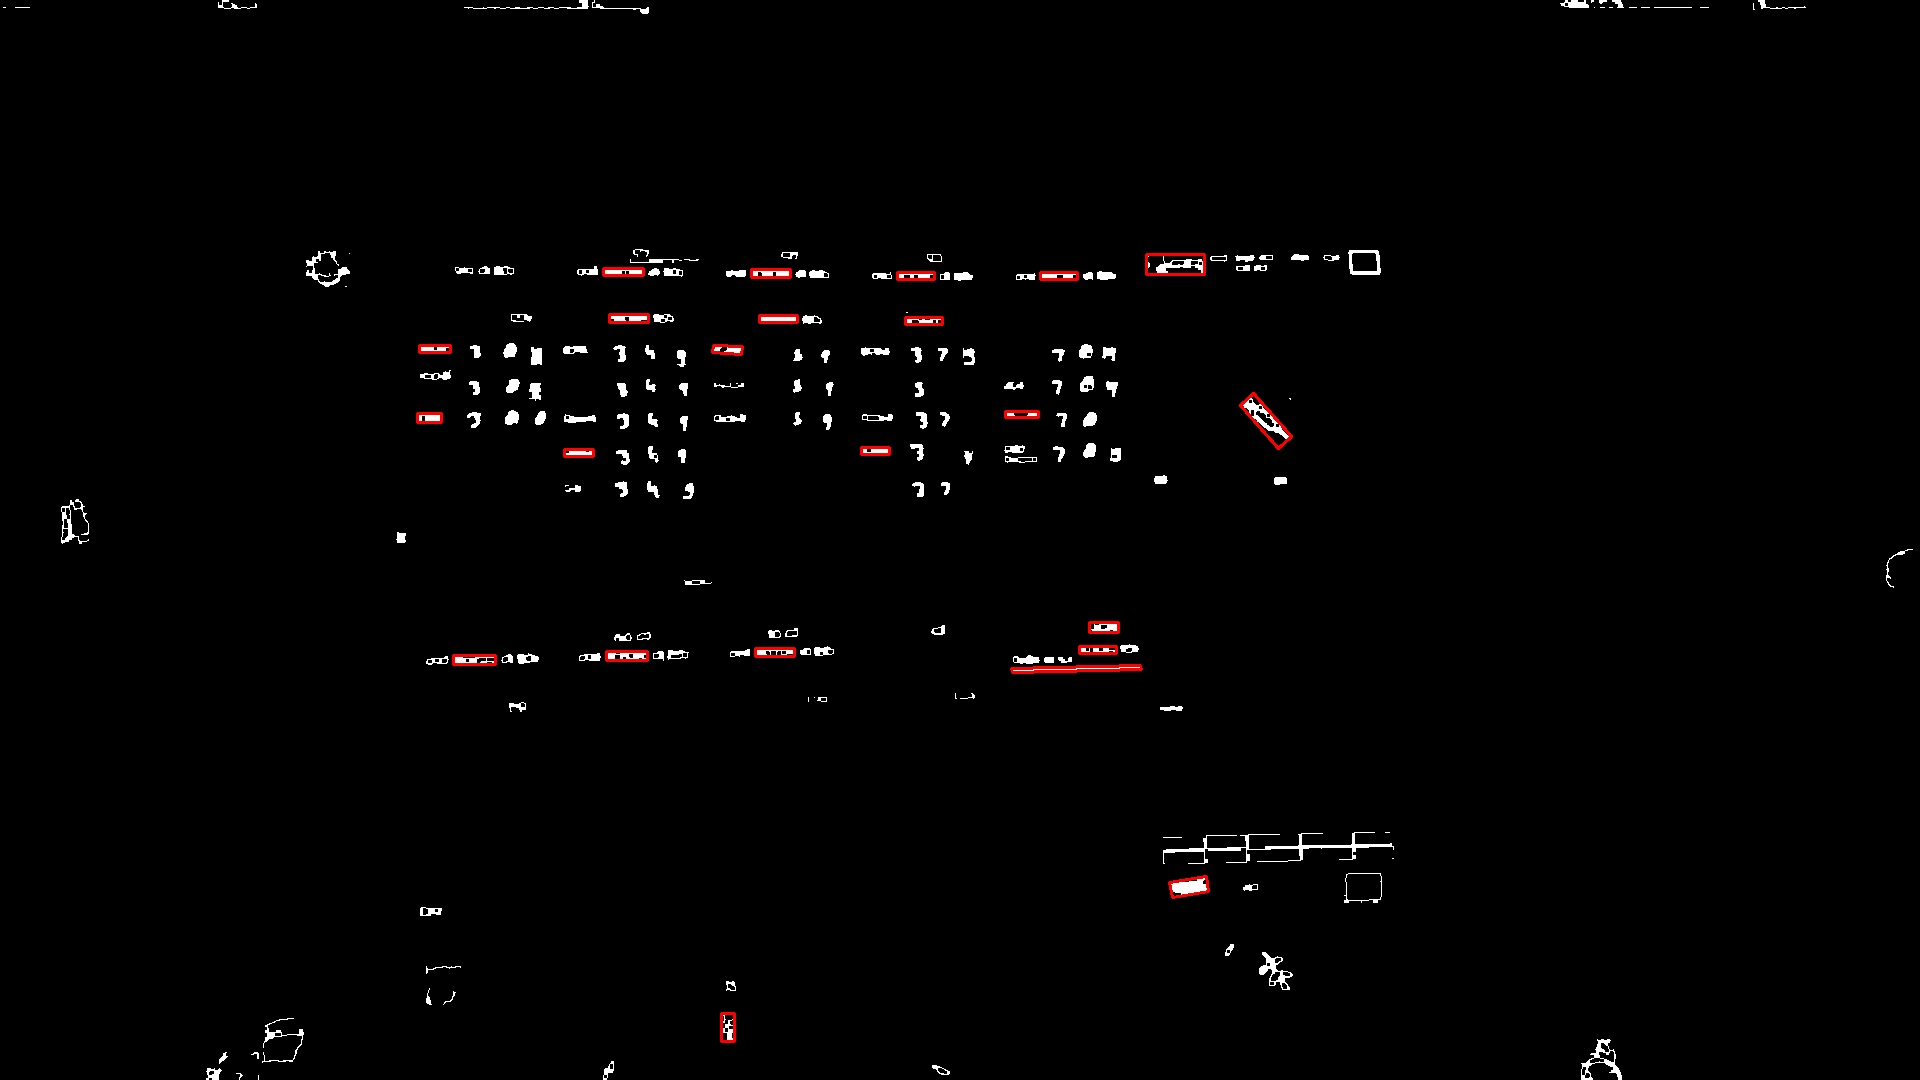
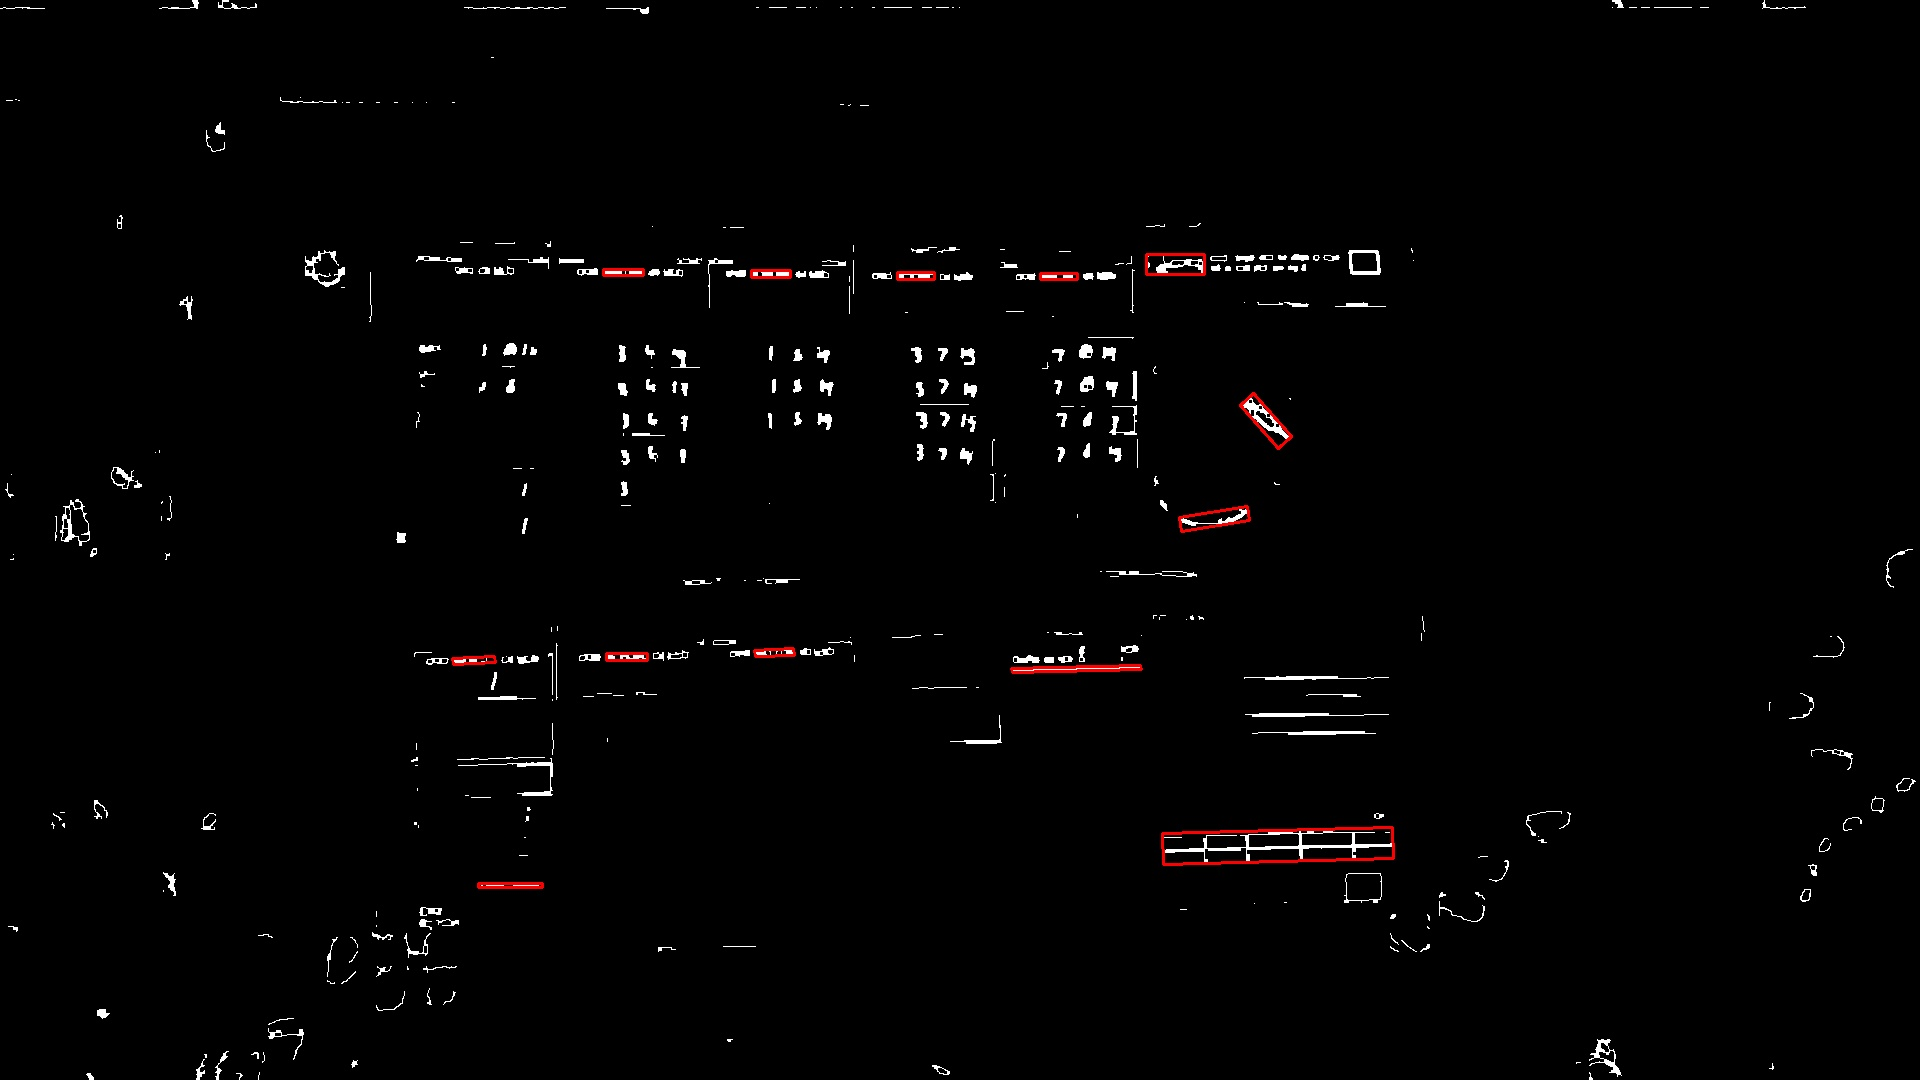
Done

diff --git a/Assignments/4/codeBooklet/CharacterDetection.py b/Assignments/4/codeBooklet/CharacterDetection.py
@@ -3,7 +3,14 @@ import cv2
 import sys
 import imutils
 
-mser = cv2.MSER_create()
+# mser = cv2.MSER_create(_delta = 1,_max_area=1500,_min_area = 90,_max_variation = 0.03,_min_diversity = 10,_edge_blur_size=1)
+mser = cv2.MSER_create(_delta = 2,_max_area=1900,_min_area = 30,_max_variation = 0.2)
+
+
+def binarize(img):
+  mask = cv2.adaptiveThreshold(img,255,cv2.ADAPTIVE_THRESH_MEAN_C,cv2.THRESH_BINARY,151,-5)
+  return(mask)
+
 
 def visulalizeMarker(markers):
   marks = np.copy(markers)
@@ -24,7 +31,13 @@ blurred = cv2.bilateralFilter(gray,kbsize,sigI,sigS)
 blurred = cv2.bilateralFilter(gray,kbsize,sigI,sigS)
 edges = cv2.Canny(blurred,60,130)
 
-
+kernel = np.ones((3,3),np.uint8)
+remover = binarize(blurred)
+remover = cv2.morphologyEx(remover, cv2.MORPH_OPEN, kernel,iterations = 5)
+remover =  cv2.dilate(remover,kernel,iterations=6)
+edges = edges*(remover/255)
+edges = edges.astype(np.uint8)
+# remover =  cv2.erode(remover,kernel,iterations=3)
 
 vis = img.copy()
 mask = np.zeros((img.shape[0], img.shape[1], 1), dtype=np.uint8)
@@ -60,7 +73,7 @@ closing = cv2.morphologyEx(intersect, cv2.MORPH_CLOSE, kernel,iterations = 1)
 _,contours,_ = cv2.findContours(closing,cv2.RETR_EXTERNAL, cv2.CHAIN_APPROX_NONE) 
 
 
-epsilon = 0.5
+epsilon = 0.55
 error_peri = 1
 
 conts_im = cv2.findContours(closing,cv2.RETR_EXTERNAL, cv2.CHAIN_APPROX_NONE) 
@@ -97,6 +110,7 @@ for i in range(0, len(contours)):
 
 
 FinalResult = FinalResult*mask_im
+FinalResult = cv2.morphologyEx(FinalResult, cv2.MORPH_CLOSE, kernel,iterations = 1)
 ret, markers = cv2.connectedComponents(FinalResult)
 visualMarks = visulalizeMarker(markers)
 
@@ -108,6 +122,7 @@ cv2.imwrite('Morpho.jpg',closing)
 cv2.imwrite('Visualize.jpg',visualMarks)
 cv2.imwrite('Detect_FalsePositive.jpg',mask_im*255)
 cv2.imwrite('FinalResult.jpg',FinalResult)
+cv2.imwrite('Remover.jpg',remover)
 
 
 

diff --git a/Assignments/4/codePrints/CharacterDetection.py b/Assignments/4/codePrints/CharacterDetection.py
@@ -3,7 +3,8 @@ import cv2
 import sys
 import imutils
 
-mser = cv2.MSER_create()
+mser = cv2.MSER_create(_delta = 3,_max_area=1900,_min_area = 90,_max_variation = 0.16)
+
 
 def visulalizeMarker(markers):
   marks = np.copy(markers)
@@ -60,12 +61,12 @@ closing = cv2.morphologyEx(intersect, cv2.MORPH_CLOSE, kernel,iterations = 1)
 _,contours,_ = cv2.findContours(closing,cv2.RETR_EXTERNAL, cv2.CHAIN_APPROX_NONE) 
 
 
-epsilon = 0.5
+epsilon = 0.65
 error_peri = 1
 
 conts_im = cv2.findContours(closing,cv2.RETR_EXTERNAL, cv2.CHAIN_APPROX_NONE) 
 # conts_im = cv2.findContours(closing,cv2.RETR_LIST, cv2.CHAIN_APPROX_SIMPLE) 
-print(conts_im)
+# print(conts_im)
 cnts_im = imutils.grab_contours(conts_im)
 mask_im = np.ones(img.shape[:2], dtype="uint8") 
 
@@ -84,7 +85,7 @@ for i in range(0, len(contours)):
     if ((1 - aspect_ratio) < epsilon) or not (peri_area < 1):
       continue
     print(aspect_ratio)
-    print(peri_area)
+    print("p",peri_area)
     box = cv2.boxPoints(rect)
     box = np.int0(box)
     cv2.drawContours(mask_im, [cnts_im[i]], -1, 0, -1)
@@ -97,6 +98,7 @@ for i in range(0, len(contours)):
 
 
 FinalResult = FinalResult*mask_im
+FinalResult = cv2.morphologyEx(FinalResult, cv2.MORPH_CLOSE, kernel,iterations = 2)
 ret, markers = cv2.connectedComponents(FinalResult)
 visualMarks = visulalizeMarker(markers)
 

diff --git a/Assignments/4/codeScanned/CharacterDetection.py b/Assignments/4/codeScanned/CharacterDetection.py
@@ -3,7 +3,7 @@ import cv2
 import sys
 import imutils
 
-mser = cv2.MSER_create()
+mser = cv2.MSER_create(_delta = 16,_max_area=400,_min_area = 60,_min_diversity = 50,_edge_blur_size=1)
 
 def visulalizeMarker(markers):
   marks = np.copy(markers)
@@ -60,7 +60,7 @@ closing = cv2.morphologyEx(intersect, cv2.MORPH_CLOSE, kernel,iterations = 1)
 _,contours,_ = cv2.findContours(closing,cv2.RETR_EXTERNAL, cv2.CHAIN_APPROX_NONE) 
 
 
-epsilon = 0.5
+epsilon = 0.6
 error_peri = 1
 
 conts_im = cv2.findContours(closing,cv2.RETR_EXTERNAL, cv2.CHAIN_APPROX_NONE) 
@@ -97,6 +97,7 @@ for i in range(0, len(contours)):
 
 
 FinalResult = FinalResult*mask_im
+# FinalResult = cv2.morphologyEx(FinalResult, cv2.MORPH_CLOSE, kernel,iterations = 2)
 ret, markers = cv2.connectedComponents(FinalResult)
 visualMarks = visulalizeMarker(markers)
 
